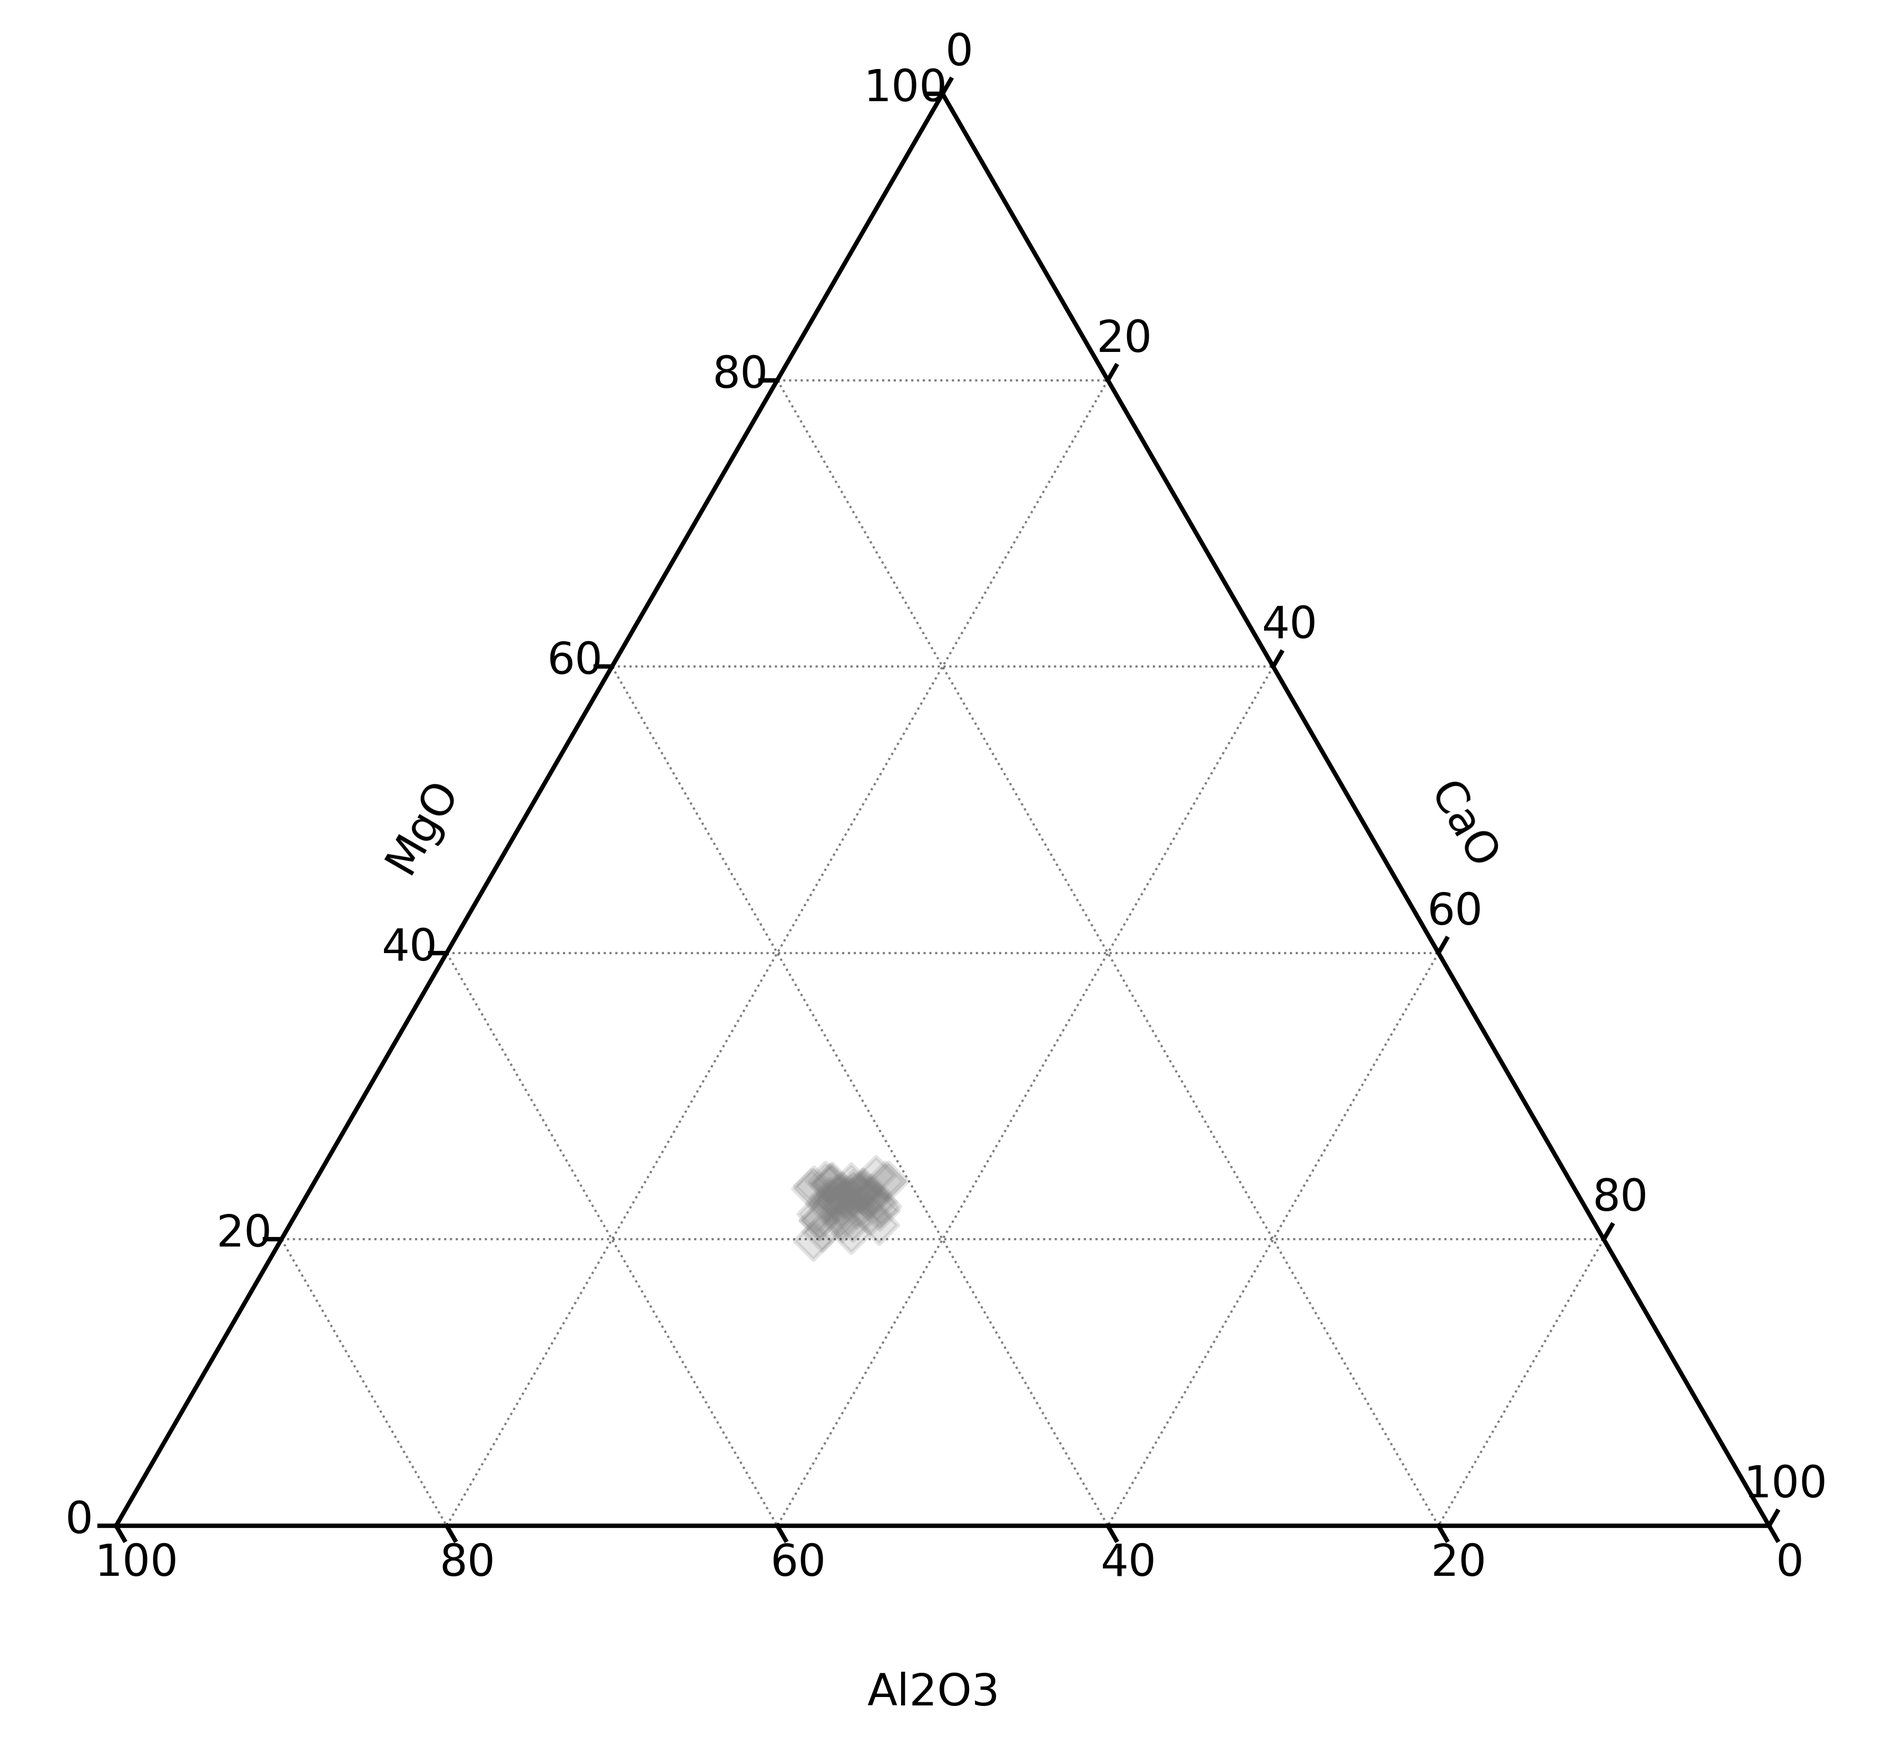
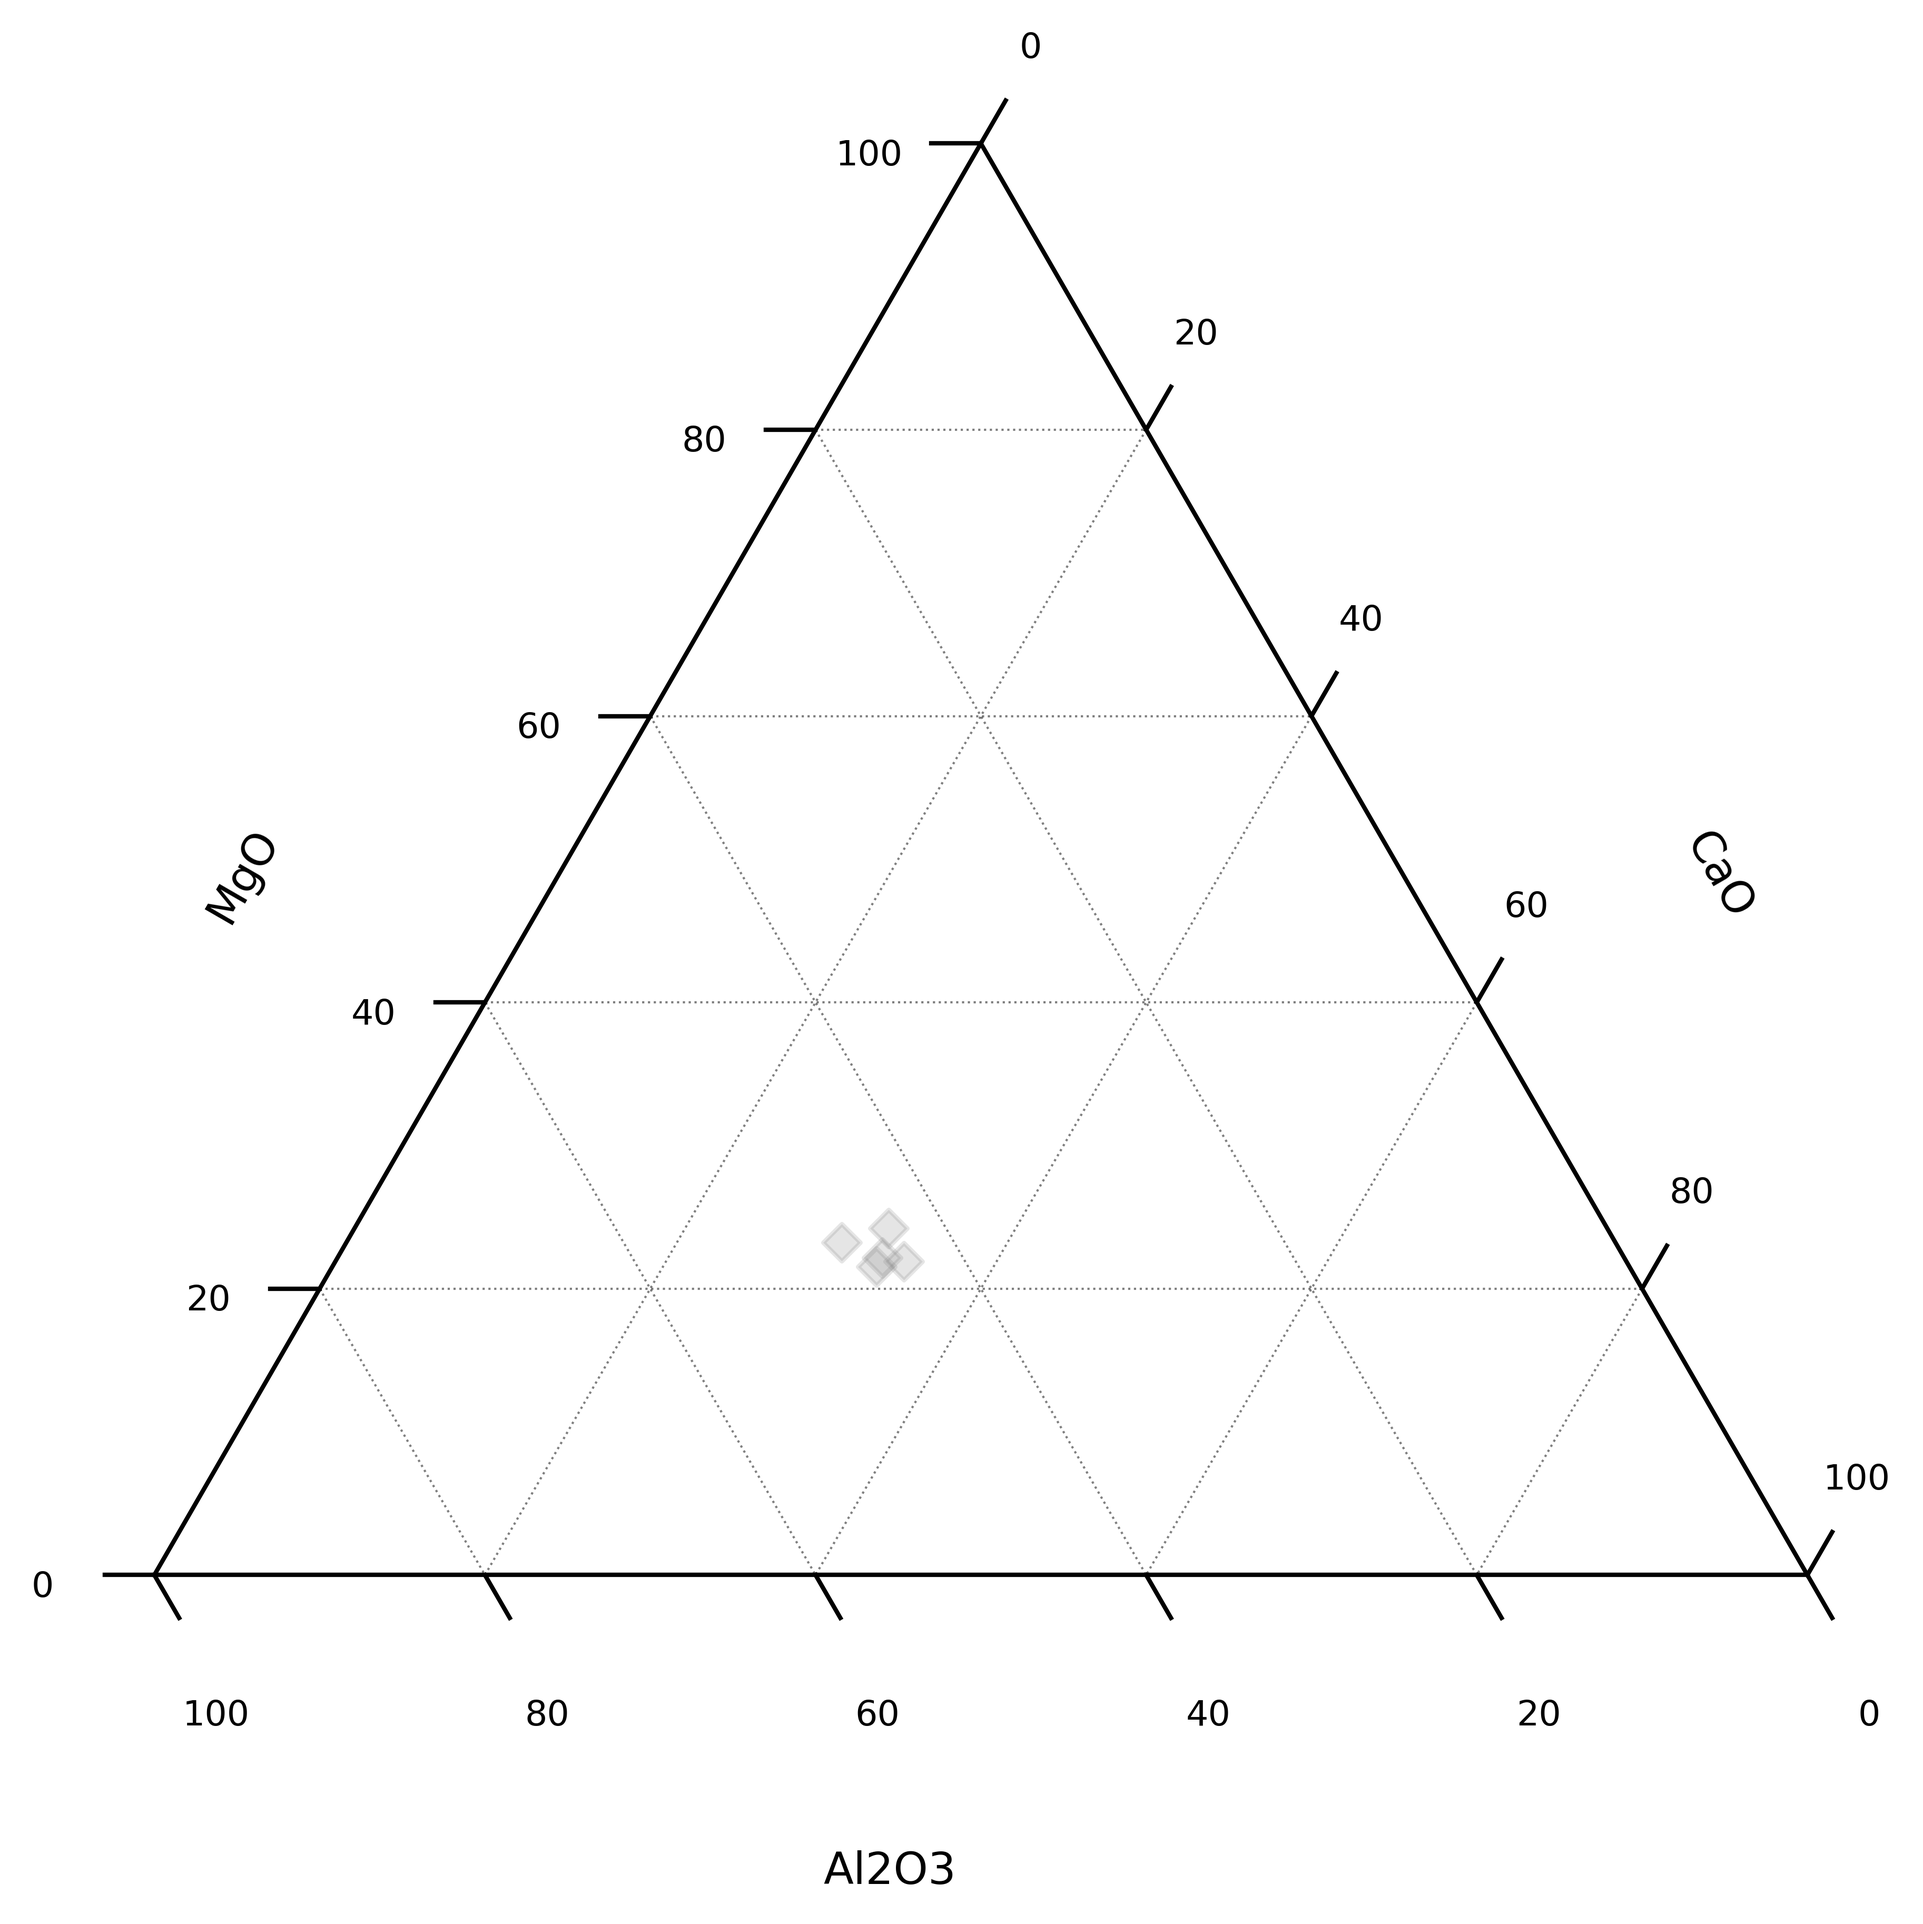
Update docs alphaMELTS uncertainty example

diff --git a/docs/_examples/alphamelts/montecarlo.py b/docs/_examples/alphamelts/montecarlo.py
@@ -26,10 +26,11 @@ def blur_compositions(df, noise=0.05, scale=100):
 from pyrolite.geochem.norm import get_reference_composition
 
 # get the major element composition of MORB from Gale et al (2013)
-Gale_MORB = get_reference_composition(["MORB_Gale2013"])
-MORB = Gale_MORB.comp[majors].reset_index(drop=True)
+Gale_MORB = get_reference_composition("MORB_Gale2013")
 
-MORB["Title"] = Gale_MORB.ModelName
+MORB = Gale_MORB.comp.pyrochem.oxides.reset_index(drop=True)
+
+MORB["Title"] = Gale_MORB.name
 MORB["Initial Temperature"] = 1300
 MORB["Final Temperature"] = 800
 MORB["Initial Pressure"] = 5000
@@ -41,12 +42,13 @@ MORB["Increment Pressure"] = 0
 from pyrolite.util.text import slugify
 from pyrolite.util.pd import accumulate
 
-reps = 5
-df = accumulate([pd.DataFrame(MORB).T] * reps)
+reps = 25
+df = accumulate([MORB] * reps)
 df = df.reset_index().drop(columns="index")
-compositional = df.pyrochem.oxides
-df[compositional] = df[compositional].astype(float).renormalise()
-df[compositional] = blur_compositions(df[compositional])
+df[df.pyrochem.list_oxides] = (
+    df.loc[:, df.pyrochem.list_oxides].astype(float).pyrocomp.renormalise()
+)
+df[df.pyrochem.list_oxides] = blur_compositions(df[df.pyrochem.list_oxides])
 
 df.Title = df.Title + " " + df.index.map(str)  # differentiate titles
 df.Title = df.Title.apply(slugify)
